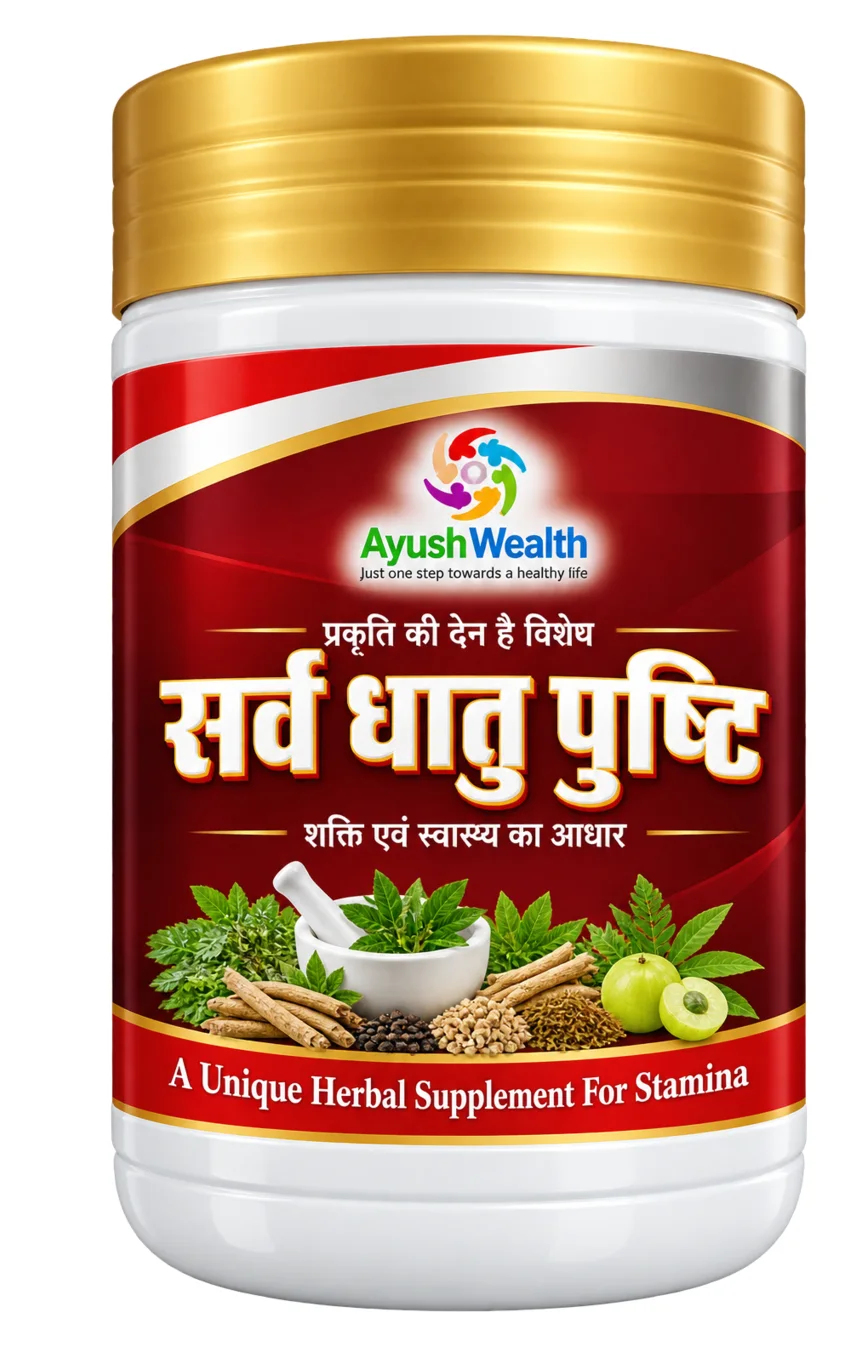
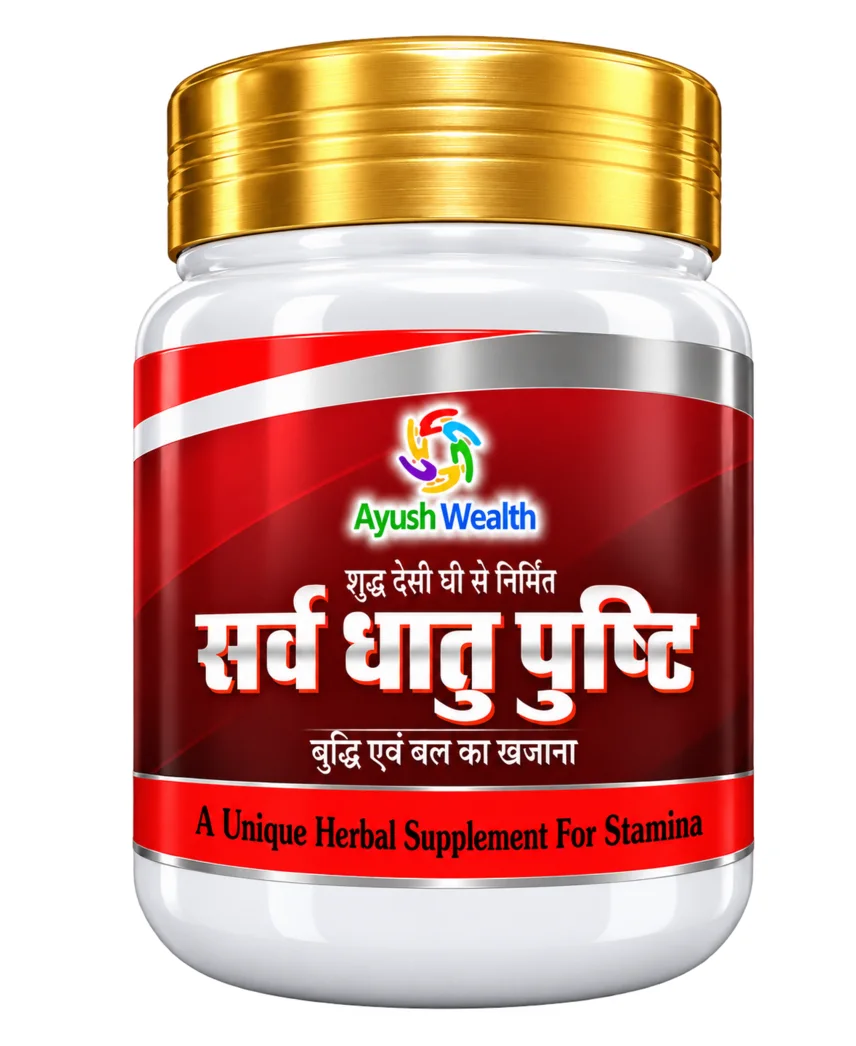
feat(products): batch 5 pack photos - juices, arks and chyawanprash
New primaries: Aloe Vera Juice, Amrit Ras, Anti Diabetes, Amla Ras,
Ajwain Ark, Cough Care, Bhumi Punarnava, Chyawanprash Kesar Yukta,
Gastro Sanjivani and Cumin Ark. Newest Sarva Dhatu Pushti label
design (desi-ghee jar) overwrites its batch-3 file.

- brochure-data.ts + neon-setup.sql point at the new files; Arks &
  Drops and Immunity & Rasayana category cards follow their first
  products (Ajwain Ark, Chyawanprash Kesar Yukta)
- 10 replaced pdf-*.webp files deleted
- Neon migration regenerated from the catalogue: one rerun-safe
  63-product update; verification expects 63/63

diff --git a/src/lib/brochure-data.ts b/src/lib/brochure-data.ts
@@ -58,22 +58,22 @@ interface CatalogRow {
 
 const rows: CatalogRow[] = [
   { name: 'Aloe Vera with Honey, Amla & Tulsi', category: 'cat_syrups_juices', packs: [['1 L', 585]], page: 4, image: 'aloe-vera-with-honey-amla-tulsi-pack.webp', ingredients: 'Aloe vera, honey, amla and tulsi.', formulation: AyurvedicFormulation.SYRUP },
-  { name: 'Aloe Vera Juice', category: 'cat_syrups_juices', packs: [['1 L', 380]], page: 4, image: 'pdf-p4-i5.webp', ingredients: 'Refer to the product label.', formulation: AyurvedicFormulation.SYRUP },
-  { name: 'Amrit Ras', category: 'cat_syrups_juices', packs: [['200 ml', 160], ['1 L', 480]], page: 6, image: 'pdf-p6-i5.webp', ingredients: 'Giloy ras, papita, tulsi, adusa, darunapushpi, nagarmotha, bhramhi and harad.', formulation: AyurvedicFormulation.SYRUP },
-  { name: 'Anti Diabetes', category: 'cat_syrups_juices', packs: [['1 L', 540]], page: 7, image: 'pdf-p7-i4.webp', ingredients: 'Gudmar, bhumi amla, punarnava, makoy, kasni, jamun, dalchini, vijaysar, chirata, kutki and ashwagandha.', formulation: AyurvedicFormulation.SYRUP },
+  { name: 'Aloe Vera Juice', category: 'cat_syrups_juices', packs: [['1 L', 380]], page: 4, image: 'aloe-vera-juice-pack.webp', ingredients: 'Refer to the product label.', formulation: AyurvedicFormulation.SYRUP },
+  { name: 'Amrit Ras', category: 'cat_syrups_juices', packs: [['200 ml', 160], ['1 L', 480]], page: 6, image: 'amrit-ras-pack.webp', ingredients: 'Giloy ras, papita, tulsi, adusa, darunapushpi, nagarmotha, bhramhi and harad.', formulation: AyurvedicFormulation.SYRUP },
+  { name: 'Anti Diabetes', category: 'cat_syrups_juices', packs: [['1 L', 540]], page: 7, image: 'anti-diabetes-pack.webp', ingredients: 'Gudmar, bhumi amla, punarnava, makoy, kasni, jamun, dalchini, vijaysar, chirata, kutki and ashwagandha.', formulation: AyurvedicFormulation.SYRUP },
   { name: 'Arjun Capsule', category: 'cat_capsules', packs: [['60 capsules', 715]], page: 13, image: 'arjun-capsule-pack.webp', formulation: AyurvedicFormulation.CAPSULE },
   { name: 'A2 Desi Ghee', category: 'cat_daily_wellness', packs: [['1 L', 1440]], page: 15, image: 'pdf-p15-i1.webp', formulation: AyurvedicFormulation.OTHER },
   { name: 'Allicin Capsule', category: 'cat_capsules', packs: [['60 capsules', 980]], page: 14, image: 'allicin-capsule-pack.webp', formulation: AyurvedicFormulation.CAPSULE },
-  { name: 'Amla Ras', category: 'cat_syrups_juices', packs: [['1 L', 380]], page: 5, image: 'pdf-p5-i2.webp', formulation: AyurvedicFormulation.SYRUP },
+  { name: 'Amla Ras', category: 'cat_syrups_juices', packs: [['1 L', 380]], page: 5, image: 'amla-ras-pack.webp', formulation: AyurvedicFormulation.SYRUP },
   { name: 'Ashwagandha Capsule', category: 'cat_capsules', packs: [['60 capsules', 540]], page: 12, image: 'ashwagandha-capsule-pack.webp', formulation: AyurvedicFormulation.CAPSULE },
-  { name: 'Ajwain Ark', category: 'cat_arks_drops', packs: [['30 ml', 160]], page: 3, image: 'pdf-p3-i8.webp', ingredients: 'Ajwain ark; refer to the product label for the complete composition and directions.', formulation: AyurvedicFormulation.KWATH },
-  { name: 'Bhumi Punarnava', category: 'cat_syrups_juices', packs: [['1 L', 580], ['200 ml', 160]], page: 5, image: 'pdf-p5-i4.webp', ingredients: 'Bhumi amla, punarnava, makoy, kasni and anantmool.', formulation: AyurvedicFormulation.SYRUP },
+  { name: 'Ajwain Ark', category: 'cat_arks_drops', packs: [['30 ml', 160]], page: 3, image: 'ajwain-ark-pack.webp', ingredients: 'Ajwain ark; refer to the product label for the complete composition and directions.', formulation: AyurvedicFormulation.KWATH },
+  { name: 'Bhumi Punarnava', category: 'cat_syrups_juices', packs: [['1 L', 580], ['200 ml', 160]], page: 5, image: 'bhumi-punarnava-pack.webp', ingredients: 'Bhumi amla, punarnava, makoy, kasni and anantmool.', formulation: AyurvedicFormulation.SYRUP },
   { name: 'Bhumi Amla Capsule', category: 'cat_capsules', packs: [['60 capsules', 585]], page: 12, image: 'bhumi-amla-capsule-pack.webp', formulation: AyurvedicFormulation.CAPSULE },
-  { name: 'Cough Care', category: 'cat_syrups_juices', packs: [['100 ml', 70]], page: 6, image: 'pdf-p6-i10.webp', ingredients: 'Yashtimadhu, sunthi, tulsi, somlata, slesmarak, bharangi, banfsa, jufah, vibhitak, vasaka, pudina and vach; honey base.', formulation: AyurvedicFormulation.SYRUP },
+  { name: 'Cough Care', category: 'cat_syrups_juices', packs: [['100 ml', 70]], page: 6, image: 'cough-care-pack.webp', ingredients: 'Yashtimadhu, sunthi, tulsi, somlata, slesmarak, bharangi, banfsa, jufah, vibhitak, vasaka, pudina and vach; honey base.', formulation: AyurvedicFormulation.SYRUP },
   { name: 'Castor Oil', category: 'cat_herbal_oils', packs: [['100 ml', 100]], page: 10, image: 'castor-oil-pack.webp', formulation: AyurvedicFormulation.TAILA },
-  { name: 'Chyawanprash Kesar Yukta', category: 'cat_immunity_rasayana', packs: [['1 kg', 880]], page: 15, image: 'pdf-p15-i3.webp', formulation: AyurvedicFormulation.AWALEHA },
+  { name: 'Chyawanprash Kesar Yukta', category: 'cat_immunity_rasayana', packs: [['1 kg', 880]], page: 15, image: 'chyawanprash-kesar-yukta-pack.webp', formulation: AyurvedicFormulation.AWALEHA },
   { name: 'Curcumin Capsule', category: 'cat_capsules', packs: [['60 capsules', 980]], page: 13, image: 'curcumin-capsule-pack.webp', formulation: AyurvedicFormulation.CAPSULE },
-  { name: 'Cumin Ark', category: 'cat_arks_drops', packs: [['30 ml', 160]], page: 3, image: 'pdf-p3-i1.webp', formulation: AyurvedicFormulation.KWATH },
+  { name: 'Cumin Ark', category: 'cat_arks_drops', packs: [['30 ml', 160]], page: 3, image: 'cumin-ark-pack.webp', formulation: AyurvedicFormulation.KWATH },
   { name: 'Dento Strong', category: 'cat_personal_care', packs: [['100 g', 160]], page: 14, image: 'dento-strong-pack.webp', formulation: AyurvedicFormulation.OTHER },
   { name: 'Detox Capsule', category: 'cat_capsules', packs: [['60 capsules', 450]], page: 9, image: 'detox-capsule-pack.webp', formulation: AyurvedicFormulation.CAPSULE },
   { name: 'Detox Syrup', category: 'cat_syrups_juices', packs: [['500 ml', 450]], page: 13, image: 'detox-syrup-pack.webp', formulation: AyurvedicFormulation.SYRUP },
@@ -82,7 +82,7 @@ const rows: CatalogRow[] = [
   { name: 'Flax Seeds', category: 'cat_daily_wellness', packs: [['400 g', 180]], page: 11, image: 'flax-seeds-pack.webp', formulation: AyurvedicFormulation.RAW_HERB },
   { name: 'Flax Oil', category: 'cat_herbal_oils', packs: [['100 ml', 180]], page: 9, image: 'flax-oil-pack.webp', formulation: AyurvedicFormulation.TAILA },
   { name: 'Fat Melter', category: 'cat_syrups_juices', packs: [['1 L', 1050]], page: 9, image: 'fat-melter-pack.webp', formulation: AyurvedicFormulation.SYRUP },
-  { name: 'Gastro Sanjivani', category: 'cat_syrups_juices', packs: [['500 ml', 380], ['200 ml', 160]], page: 5, image: 'pdf-p5-i6.webp', ingredients: 'Amaltas, nagarmotha, methi, saunf, gulab patti, mulethi, triphala, giloy, aloe vera, nishoth, sanai and indrayan.', formulation: AyurvedicFormulation.SYRUP },
+  { name: 'Gastro Sanjivani', category: 'cat_syrups_juices', packs: [['500 ml', 380], ['200 ml', 160]], page: 5, image: 'gastro-sanjivani-pack.webp', ingredients: 'Amaltas, nagarmotha, methi, saunf, gulab patti, mulethi, triphala, giloy, aloe vera, nishoth, sanai and indrayan.', formulation: AyurvedicFormulation.SYRUP },
   { name: 'Grape Seed Extract', category: 'cat_capsules', packs: [['60 capsules', 715]], page: 15, image: 'grape-seed-extract-pack.webp', formulation: AyurvedicFormulation.CAPSULE },
   { name: 'Green Tea Tablet', category: 'cat_capsules', packs: [['60 tablets', 480]], page: 12, image: 'green-tea-tablet-pack.webp', formulation: AyurvedicFormulation.TABLET },
   { name: 'Gokhru Capsule', category: 'cat_capsules', packs: [['60 capsules', 540]], page: 13, image: 'gokhru-capsule-pack.webp', formulation: AyurvedicFormulation.CAPSULE },

diff --git a/DEPLOY.md b/DEPLOY.md
@@ -40,7 +40,7 @@ Pick ONE path (never both on the same database):
   balance of 100 units for every brochure pack variant, with matching
   inventory-ledger rows; its marker makes a duplicate run safe and prevents
   later sales/manual corrections from being reset),
-  `20261025_replace_primary_product_images.sql` (points 53 products'
+  `20261025_replace_primary_product_images.sql` (points 63 products'
   primary photos at the new owner-supplied pack images
   `/products/<slug>-pack.webp`; run it only AFTER the deployment that
   contains those image files is live).
